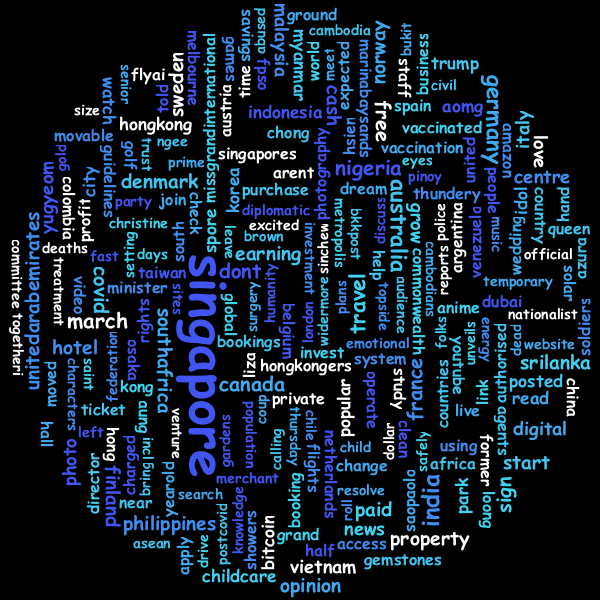
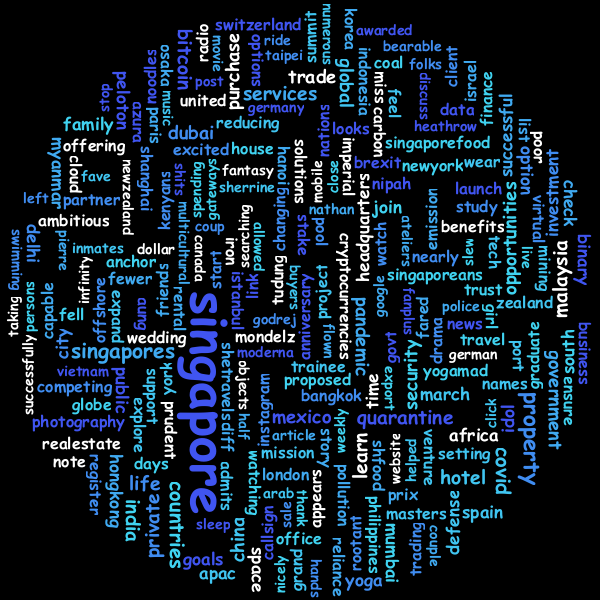
integrate wordcloud

diff --git a/Spooder/src/main/java/Spooding/Spooder/App.java b/Spooder/src/main/java/Spooding/Spooder/App.java
@@ -79,6 +79,13 @@ public class App {
 				crawlerProgram.crawl(twitterCrawler);
 				crawlerProgram.crawl(redditCrawler);
 				crawlerProgram.crawl(straitsCrawler);
+				// generate word cloud for each sources
+				wordCloud.setSource("twitter");
+				wordCloud.generateCloud();
+				wordCloud.setSource("reddit");
+				wordCloud.generateCloud();
+				wordCloud.setSource("straitstimes");
+				wordCloud.generateCloud();
 				break;
 			case 2:
 				System.out.print("\n----------Specific crawl----------\n1. Crawl from twitter\n2. Crawl from reddit\n3. Crawl from Straits Times\n4. Return\nEnter Choice: ");
@@ -86,12 +93,18 @@ public class App {
 				switch(subChoice) {
 				case 1:
 					crawlerProgram.crawl(twitterCrawler);
+					wordCloud.setSource("twitter");
+					wordCloud.generateCloud();
 					break;
 				case 2:
 					crawlerProgram.crawl(redditCrawler);
+					wordCloud.setSource("reddit");
+					wordCloud.generateCloud();
 					break;
 				case 3:
 					crawlerProgram.crawl(straitsCrawler);
+					wordCloud.setSource("straitstimes");
+					wordCloud.generateCloud();
 					break;
 				case 4:
 					break;
@@ -121,13 +134,6 @@ public class App {
 				default:
 					break;
 				}
-				// generate word cloud for each sources
-				//wordCloud.setSource("twitter");
-				//wordCloud.generateCloud();
-				//wordCloud.setSource("reddit");
-				//wordCloud.generateCloud();
-				//wordCloud.setSource("straitstimes");
-				//wordCloud.generateCloud();
 				break;
 			case 4:
 				System.out.print("\n----------Export Data to CSV----------\n1.Raw data\n2.Data after Sentiment Analysis\nEnter Choice:");

diff --git a/Spooder/src/main/java/Spooding/Spooder/WordCloudGenerator.java b/Spooder/src/main/java/Spooding/Spooder/WordCloudGenerator.java
@@ -94,7 +94,7 @@ public class WordCloudGenerator extends MongoConnect {
             }	
         }
         
-        // load the source csv file into the analyzer
+        // load the data source from mongodb into the analyzer
 		final List<WordFrequency> wordFrequencies = frequencyAnalyzer.load(dataList);
 		// there are 2 collision mode to choose from, PIXEL_PERFECT and RECTANGLE
 		final WordCloud wordCloud = new WordCloud(dimension, CollisionMode.PIXEL_PERFECT);
